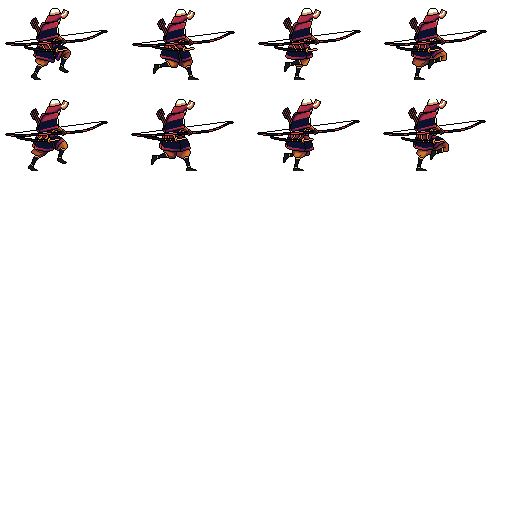
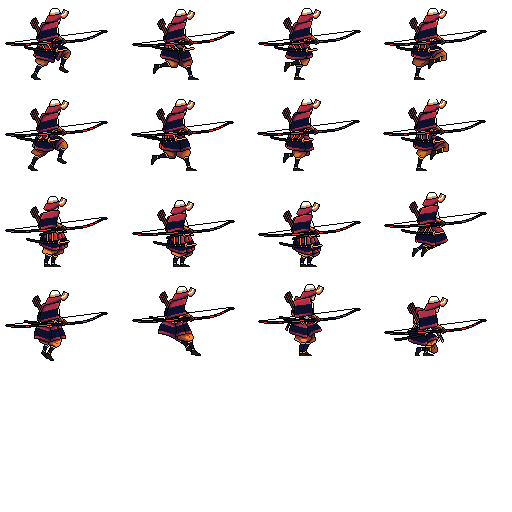
feat: add new assets and update player hitbox dimensions

diff --git a/src/Player.h b/src/Player.h
@@ -16,7 +16,7 @@ public:
 	Player();
 	~Player();
 	static constexpr int HITBOX_WIDTH = 32;
-	static constexpr int HITBOX_HEIGHT = 64;
+	static constexpr int HITBOX_HEIGHT = 32;
 
 public:
 	void init(const glm::ivec2 &tileMapPos, ShaderProgram &shaderProgram);
